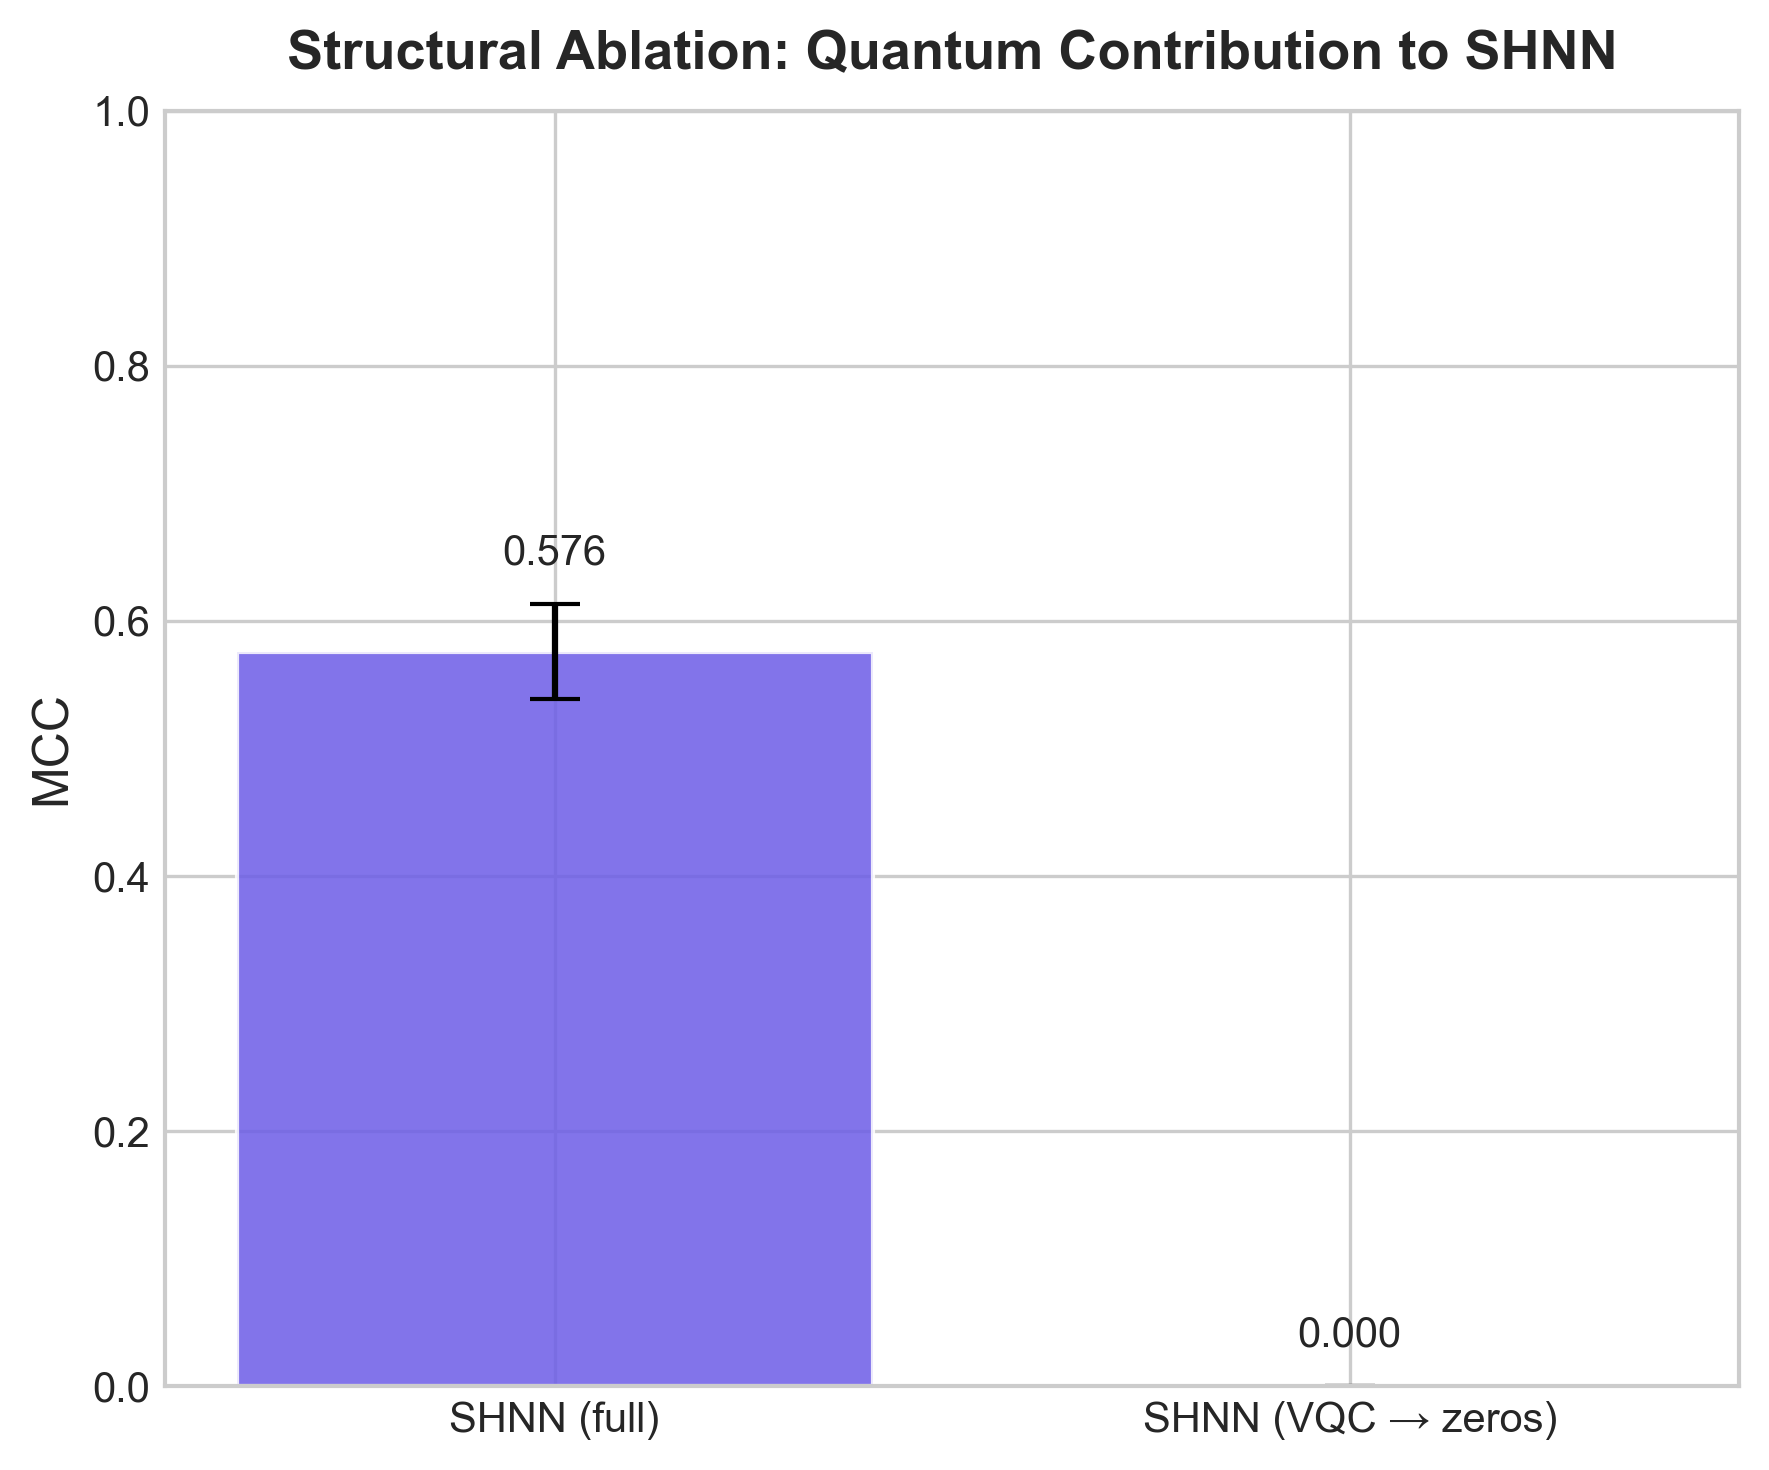
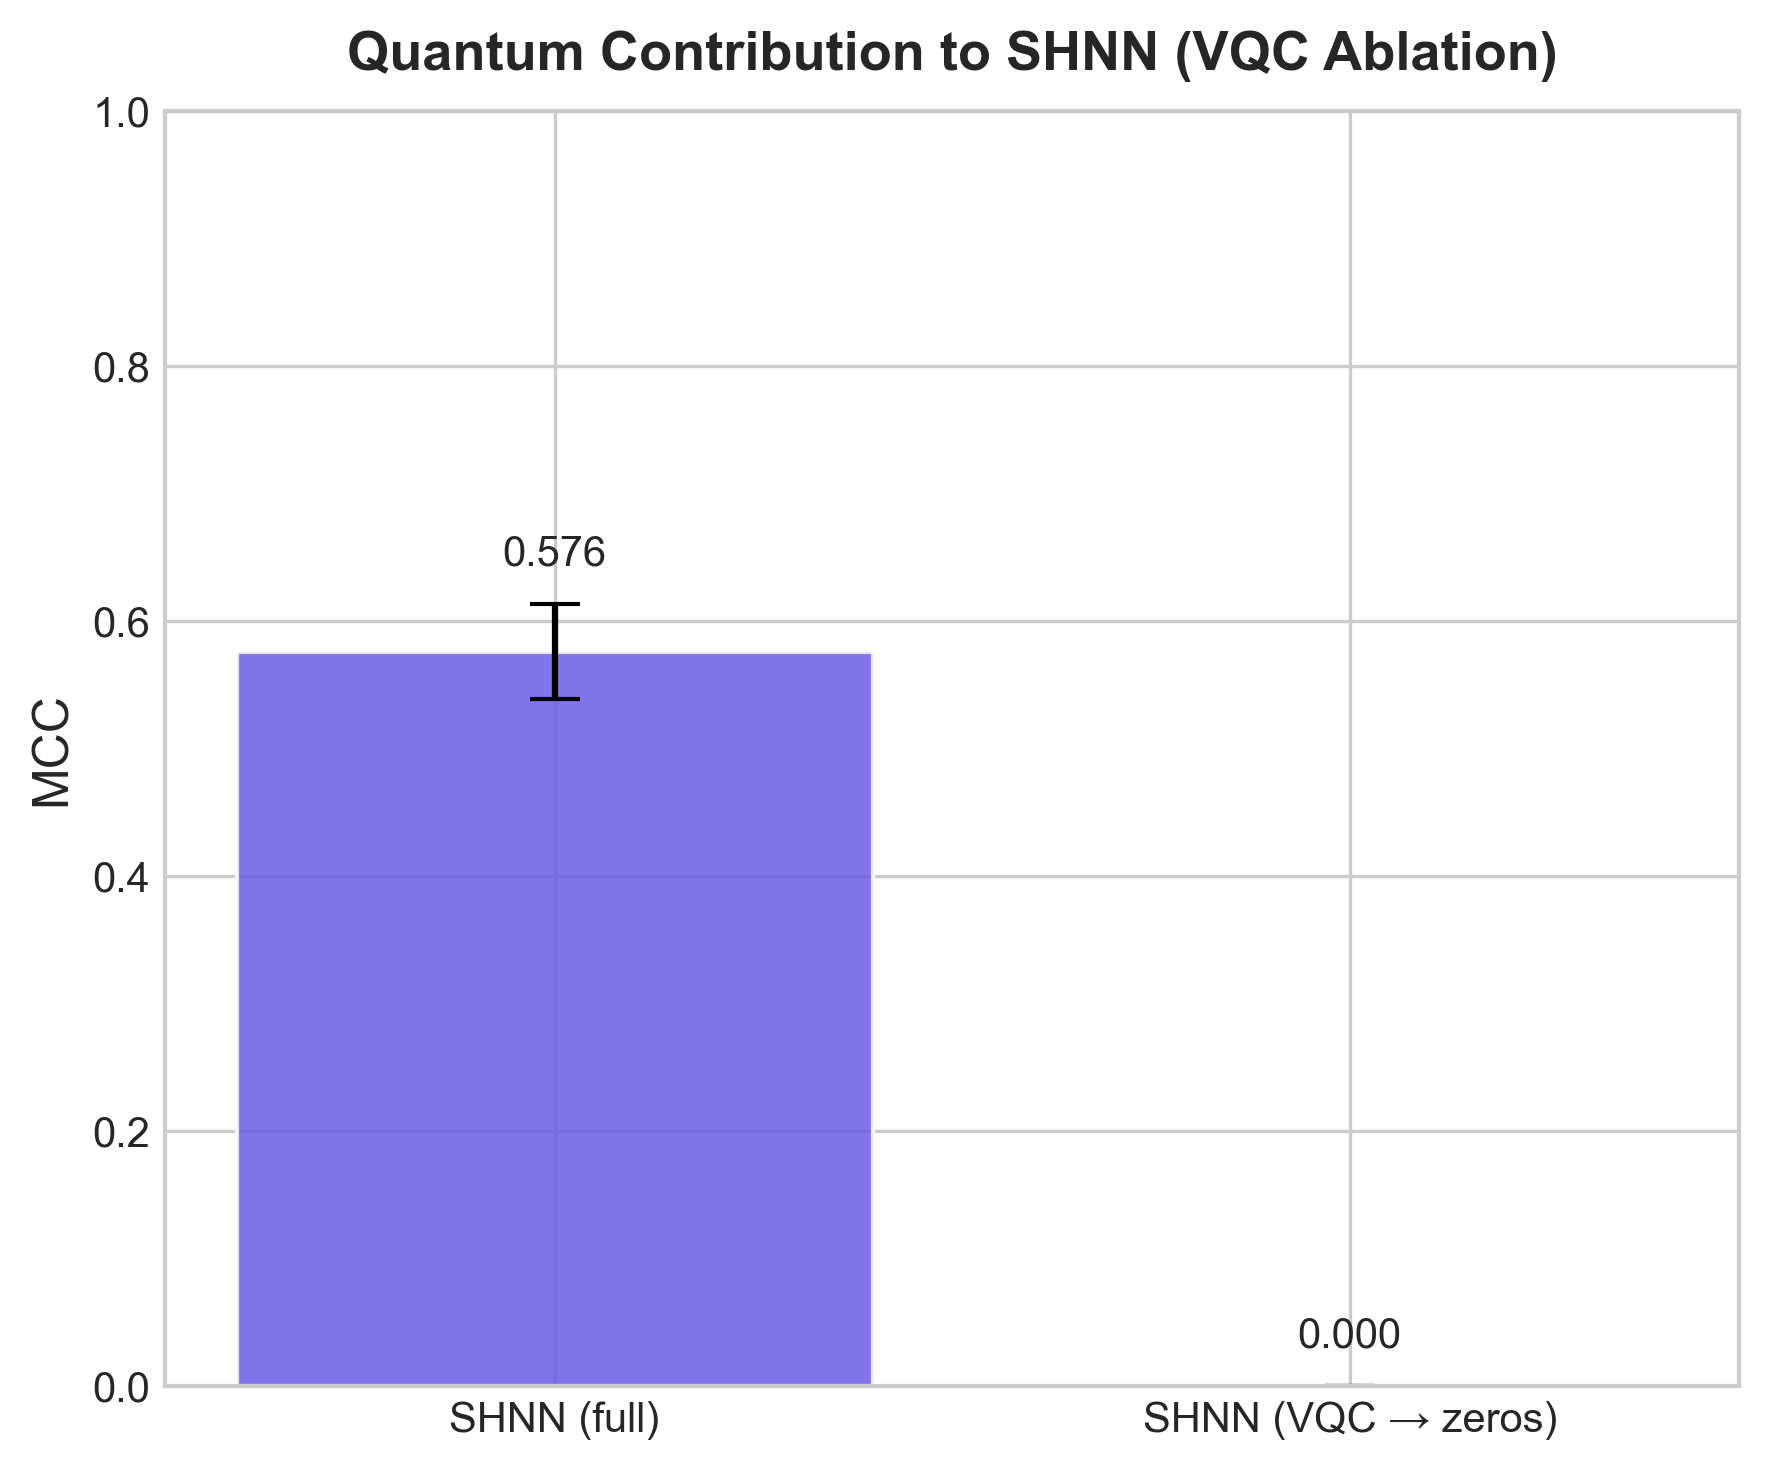
docs(plots): shorten in-image titles for Figs 4, 5, 6 (#115)
- Fig 4: "Mean Confusion Matrices — Held-Out Test Set / n = 56,962; 98 frauds"
- Fig 5: "Quantum Contribution to SHNN (VQC Ablation)"
- Fig 6: "SHNN MCC vs. Depolarizing Noise"

Closes #114

Pull request: docs(plots): shorten in-image titles for Figs 4, 5, 6
Closes #114

## Summary
- Fig 4 suptitle: removed redundant long form, subtitle drops "held-out test set" (now in main title)
- Fig 5 title: dropped "Structural Ablation:" prefix
- Fig 6 title: dropped "NISQ Noise Robustness:" prefix
- No data, axis labels, panel headers, legends, colours, or DPI touched

## Test plan
- [x] `pixi run test` — 61/61 passed
- [x] Only `confusion_matrices.png`, `ablation_vqc.png`, `ablation_noise.png` differ from main — confirmed via `git diff --name-only`
- [x] All other 9 figures byte-identical (spot-checked `metric_comparison.png`)

diff --git a/src/evaluation/plots.py b/src/evaluation/plots.py
@@ -226,7 +226,7 @@ def plot_ablation_vqc(shnn_mcc: float, shnn_std: float, save_path: Path) -> None
                   error_kw={"linewidth": 1.5})
     ax.set_ylabel("MCC", fontsize=12)
     ax.set_ylim(0, 1.0)
-    ax.set_title("Structural Ablation: Quantum Contribution to SHNN",
+    ax.set_title("Quantum Contribution to SHNN (VQC Ablation)",
                  fontsize=13, fontweight="bold", pad=10)
 
     for bar, val, err in zip(bars, values, errors):
@@ -254,7 +254,7 @@ def plot_ablation_noise(noise_data: list[dict], save_path: Path) -> None:
 
     ax.set_xlabel("Depolarizing noise probability (p)", fontsize=12)
     ax.set_ylabel("MCC", fontsize=12)
-    ax.set_title("NISQ Noise Robustness: SHNN MCC vs Depolarizing Noise",
+    ax.set_title("SHNN MCC vs. Depolarizing Noise",
                  fontsize=13, fontweight="bold")
     ax.legend(fontsize=10)
     ax.set_ylim(0, 1.0)
@@ -306,8 +306,8 @@ def plot_aggregated_confusion_matrices(
         ax.set_ylabel("Actual", fontsize=10)
 
     fig.suptitle(
-        "Mean Confusion Matrices for HQNN Architectures on the Held-Out Test Set\n"
-        "held-out test set, n = 56,962; 98 frauds",
+        "Mean Confusion Matrices — Held-Out Test Set\n"
+        "n = 56,962; 98 frauds",
         fontsize=13, fontweight="bold",
     )
     fig.tight_layout()